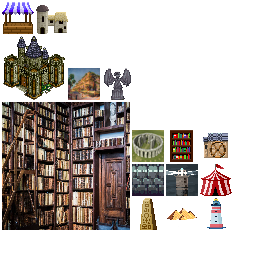
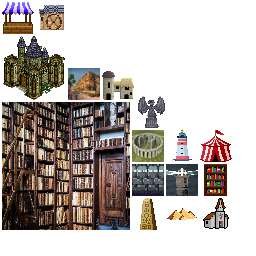
Building: Implement shrine building

Changed region(s): [[0.6562, 0.5, 0.9062, 0.9062], [0.375, 0.25, 0.6562, 0.5], [0.125, 0.0, 0.2812, 0.1562]]

diff --git a/core/src/main/java/me/rhin/openciv/game/city/building/type/Shrine.java b/core/src/main/java/me/rhin/openciv/game/city/building/type/Shrine.java
@@ -1,0 +1,63 @@
+package me.rhin.openciv.game.city.building.type;
+
+import me.rhin.openciv.asset.TextureEnum;
+import me.rhin.openciv.game.city.City;
+import me.rhin.openciv.game.city.building.Building;
+import me.rhin.openciv.game.production.ProductionItem;
+import me.rhin.openciv.game.research.type.PotteryTech;
+import me.rhin.openciv.game.unit.UnitItem;
+import me.rhin.openciv.game.unit.UnitItem.UnitType;
+import me.rhin.openciv.shared.stat.Stat;
+
+public class Shrine extends Building {
+
+	public Shrine(City city) {
+		super(city);
+
+		this.statLine.addValue(Stat.HERITAGE_GAIN, 1);
+	}
+
+	@Override
+	public void onBuilt() {
+		super.onBuilt();
+
+		for (ProductionItem item : city.getProducibleItemManager().getPossibleItems().values()) {
+			if (item instanceof UnitItem) {
+				UnitItem unitItem = (UnitItem) item;
+				if (unitItem.getUnitItemTypes().contains(UnitType.SUPPORT)) {
+					item.setProductionModifier(-0.1F);
+				}
+			}
+		}
+	}
+
+	@Override
+	public float getBuildingProductionCost() {
+		return 65;
+	}
+
+	@Override
+	public float getGoldCost() {
+		return 200;
+	}
+
+	@Override
+	public String getName() {
+		return "Shrine";
+	}
+
+	@Override
+	public boolean meetsProductionRequirements() {
+		return city.getPlayerOwner().getResearchTree().hasResearched(PotteryTech.class);
+	}
+
+	@Override
+	public TextureEnum getTexture() {
+		return TextureEnum.BUILDING_SHRINE;
+	}
+
+	@Override
+	public String getDesc() {
+		return "A sanctuary for normal citizens. \n10% produciton bonus towards support units. \nSupport units include builders & settlers. \n+1 Heritage";
+	}
+}

diff --git a/server/src/main/java/me/rhin/openciv/server/game/city/building/type/Shrine.java b/server/src/main/java/me/rhin/openciv/server/game/city/building/type/Shrine.java
@@ -1,0 +1,52 @@
+package me.rhin.openciv.server.game.city.building.type;
+
+import me.rhin.openciv.server.game.city.City;
+import me.rhin.openciv.server.game.city.building.Building;
+import me.rhin.openciv.server.game.production.ProductionItem;
+import me.rhin.openciv.server.game.research.type.PotteryTech;
+import me.rhin.openciv.server.game.unit.UnitItem;
+import me.rhin.openciv.server.game.unit.UnitItem.UnitType;
+import me.rhin.openciv.shared.stat.Stat;
+
+public class Shrine extends Building {
+
+	public Shrine(City city) {
+		super(city);
+
+		this.statLine.addValue(Stat.HERITAGE_GAIN, 1);
+	}
+
+	@Override
+	public void create() {
+		super.create();
+
+		for (ProductionItem item : city.getProducibleItemManager().getPossibleItems().values()) {
+			if (item instanceof UnitItem) {
+				UnitItem unitItem = (UnitItem) item;
+				if (unitItem.getUnitItemTypes().contains(UnitType.SUPPORT)) {
+					item.setProductionModifier(-0.1F);
+				}
+			}
+		}
+	}
+
+	@Override
+	public float getBuildingProductionCost() {
+		return 65;
+	}
+
+	@Override
+	public float getGoldCost() {
+		return 200;
+	}
+
+	@Override
+	public String getName() {
+		return "Shrine";
+	}
+
+	@Override
+	public boolean meetsProductionRequirements() {
+		return city.getPlayerOwner().getResearchTree().hasResearched(PotteryTech.class);
+	}
+}

diff --git a/server/src/main/java/me/rhin/openciv/server/game/production/ProducibleItemManager.java b/server/src/main/java/me/rhin/openciv/server/game/production/ProducibleItemManager.java
@@ -17,6 +17,7 @@ import me.rhin.openciv.server.game.city.building.type.HangingGardens;
 import me.rhin.openciv.server.game.city.building.type.Library;
 import me.rhin.openciv.server.game.city.building.type.Market;
 import me.rhin.openciv.server.game.city.building.type.Monument;
+import me.rhin.openciv.server.game.city.building.type.Shrine;
 import me.rhin.openciv.server.game.city.building.type.StatueOfAres;
 import me.rhin.openciv.server.game.city.building.type.Stonehenge;
 import me.rhin.openciv.server.game.city.building.type.Walls;
@@ -85,6 +86,7 @@ public class ProducibleItemManager implements NextTurnListener {
 		possibleItems.put("Library", new Library(city));
 		possibleItems.put("Water Mill", new WaterMill(city));
 		possibleItems.put("Walls", new Walls(city));
+		possibleItems.put("Shrine", new Shrine(city));
 
 		// Wonders
 		possibleItems.put("Great Pyramids", new GreatPyramids(city));

diff --git a/core/src/main/java/me/rhin/openciv/game/production/ProducibleItemManager.java b/core/src/main/java/me/rhin/openciv/game/production/ProducibleItemManager.java
@@ -16,6 +16,7 @@ import me.rhin.openciv.game.city.building.type.HangingGardens;
 import me.rhin.openciv.game.city.building.type.Library;
 import me.rhin.openciv.game.city.building.type.Market;
 import me.rhin.openciv.game.city.building.type.Monument;
+import me.rhin.openciv.game.city.building.type.Shrine;
 import me.rhin.openciv.game.city.building.type.StatueOfAres;
 import me.rhin.openciv.game.city.building.type.Stonehenge;
 import me.rhin.openciv.game.city.building.type.Walls;
@@ -74,6 +75,7 @@ public class ProducibleItemManager {
 		possibleItems.put("Library", new Library(city));
 		possibleItems.put("Water Mill", new WaterMill(city));
 		possibleItems.put("Walls", new Walls(city));
+		possibleItems.put("Shrine", new Shrine(city));
 
 		// Wonders
 		possibleItems.put("Great Pyramids", new GreatPyramids(city));

diff --git a/server/src/main/java/me/rhin/openciv/server/game/city/building/Building.java b/server/src/main/java/me/rhin/openciv/server/game/city/building/Building.java
@@ -12,6 +12,7 @@ public abstract class Building implements ProductionItem {
 
 	protected City city;
 	protected StatLine statLine;
+	protected boolean built;
 	private float productionModifier;
 
 	public Building(City city) {
@@ -31,6 +32,7 @@ public abstract class Building implements ProductionItem {
 
 		city.addBuilding(this);
 		city.getProducibleItemManager().getPossibleItems().remove(getName());
+		built = true;
 
 		Server.getInstance().getEventManager().fireEvent(new BuildingConstructedEvent(city, this));
 	}

diff --git a/core/src/main/java/me/rhin/openciv/game/city/building/Building.java b/core/src/main/java/me/rhin/openciv/game/city/building/Building.java
@@ -10,6 +10,7 @@ public abstract class Building implements ProductionItem {
 	protected City city;
 	protected StatLine statLine;
 	protected float productionModifier;
+	protected boolean built;
 
 	public Building(City city) {
 		this.city = city;
@@ -51,5 +52,6 @@ public abstract class Building implements ProductionItem {
 	}
 
 	public void onBuilt() {
+		built = true;
 	}
 }

diff --git a/core/src/main/java/me/rhin/openciv/game/city/building/type/GreatLibrary.java b/core/src/main/java/me/rhin/openciv/game/city/building/type/GreatLibrary.java
@@ -31,6 +31,8 @@ public class GreatLibrary extends Building implements SpecialistContainer, Wonde
 
 	@Override
 	public void onBuilt() {
+		super.onBuilt();
+
 		Civilization.getInstance().getGame().getWonders().setBuilt(getClass());
 	}
 

diff --git a/core/src/main/java/me/rhin/openciv/game/city/building/type/HangingGardens.java b/core/src/main/java/me/rhin/openciv/game/city/building/type/HangingGardens.java
@@ -29,6 +29,8 @@ public class HangingGardens extends Building implements Wonder {
 
 	@Override
 	public void onBuilt() {
+		super.onBuilt();
+		
 		Civilization.getInstance().getGame().getWonders().setBuilt(getClass());
 	}
 

diff --git a/core/src/main/java/me/rhin/openciv/game/city/building/type/GreatPyramids.java b/core/src/main/java/me/rhin/openciv/game/city/building/type/GreatPyramids.java
@@ -33,6 +33,8 @@ public class GreatPyramids extends Building implements Wonder {
 
 	@Override
 	public void onBuilt() {
+		super.onBuilt();
+		
 		Civilization.getInstance().getGame().getWonders().setBuilt(getClass());
 	}
 

diff --git a/core/src/main/java/me/rhin/openciv/game/city/building/type/StatueOfAres.java b/core/src/main/java/me/rhin/openciv/game/city/building/type/StatueOfAres.java
@@ -39,6 +39,8 @@ public class StatueOfAres extends Building implements Wonder {
 
 	@Override
 	public void onBuilt() {
+		super.onBuilt();
+		
 		Civilization.getInstance().getGame().getWonders().setBuilt(getClass());
 	}
 

diff --git a/core/src/main/java/me/rhin/openciv/game/city/building/type/Stonehenge.java b/core/src/main/java/me/rhin/openciv/game/city/building/type/Stonehenge.java
@@ -39,6 +39,8 @@ public class Stonehenge extends Building implements Wonder {
 
 	@Override
 	public void onBuilt() {
+		super.onBuilt();
+		
 		Civilization.getInstance().getGame().getWonders().setBuilt(getClass());
 	}
 

diff --git a/core/src/main/java/me/rhin/openciv/asset/TextureEnum.java b/core/src/main/java/me/rhin/openciv/asset/TextureEnum.java
@@ -76,6 +76,7 @@ public enum TextureEnum {
 	BUILDING_HANGING_GARDENS,
 	BUILDING_STATUE_OF_ARES,
 	BUILDING_STONEHENGE,
+	BUILDING_SHRINE,
 	ICON_SCIENCE,
 	ICON_HERITAGE,
 	ICON_GOLD,
